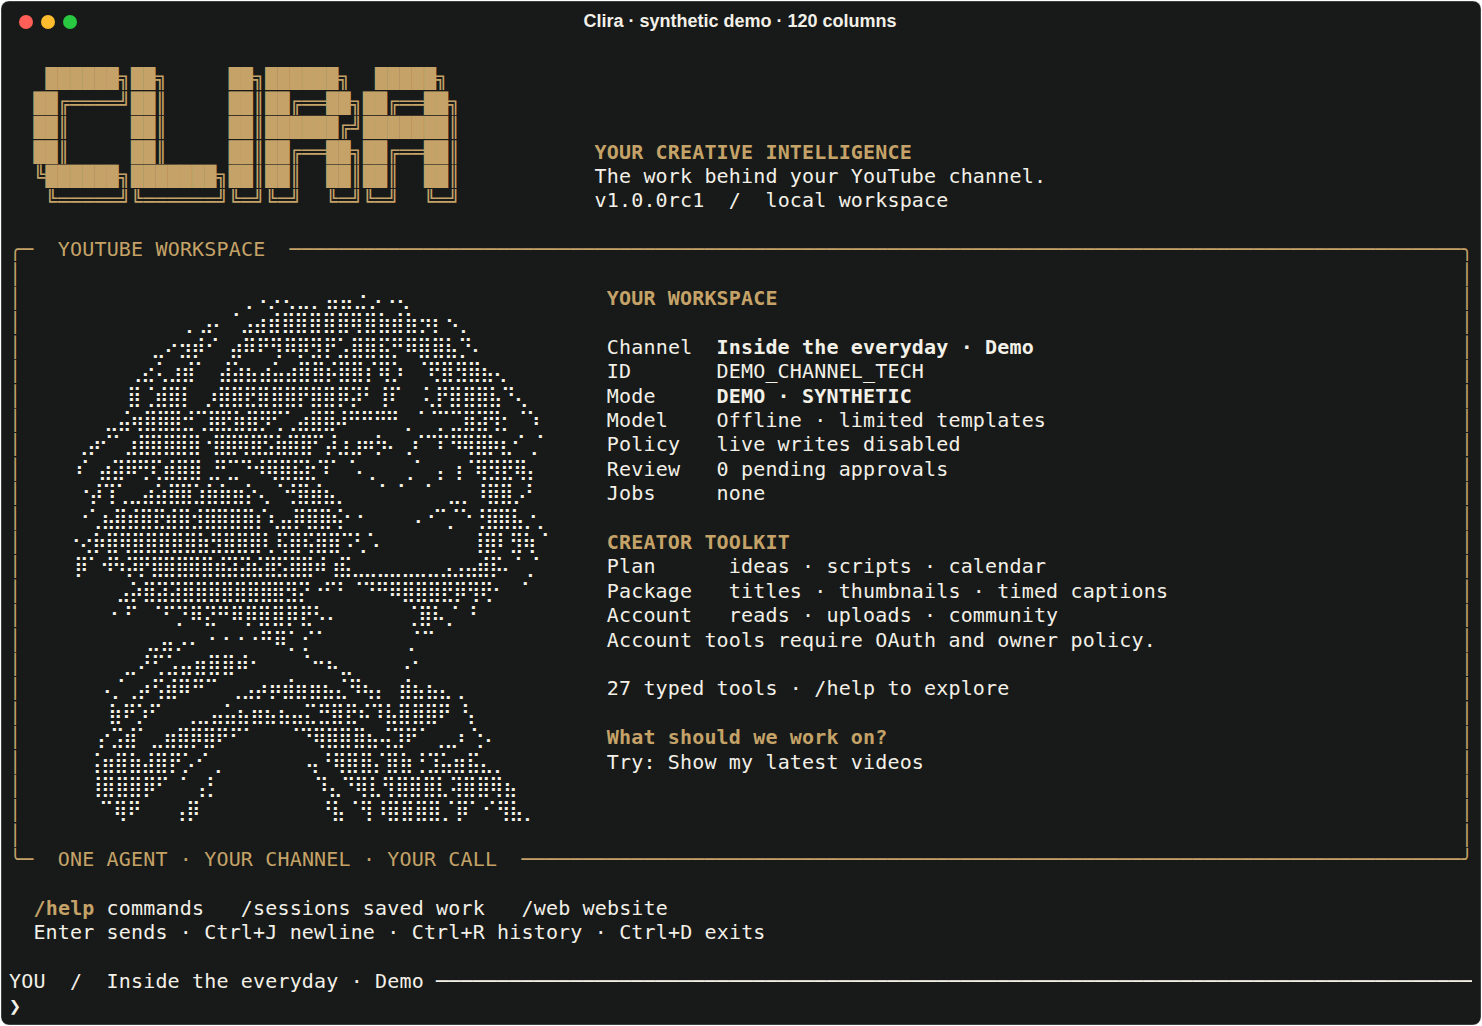
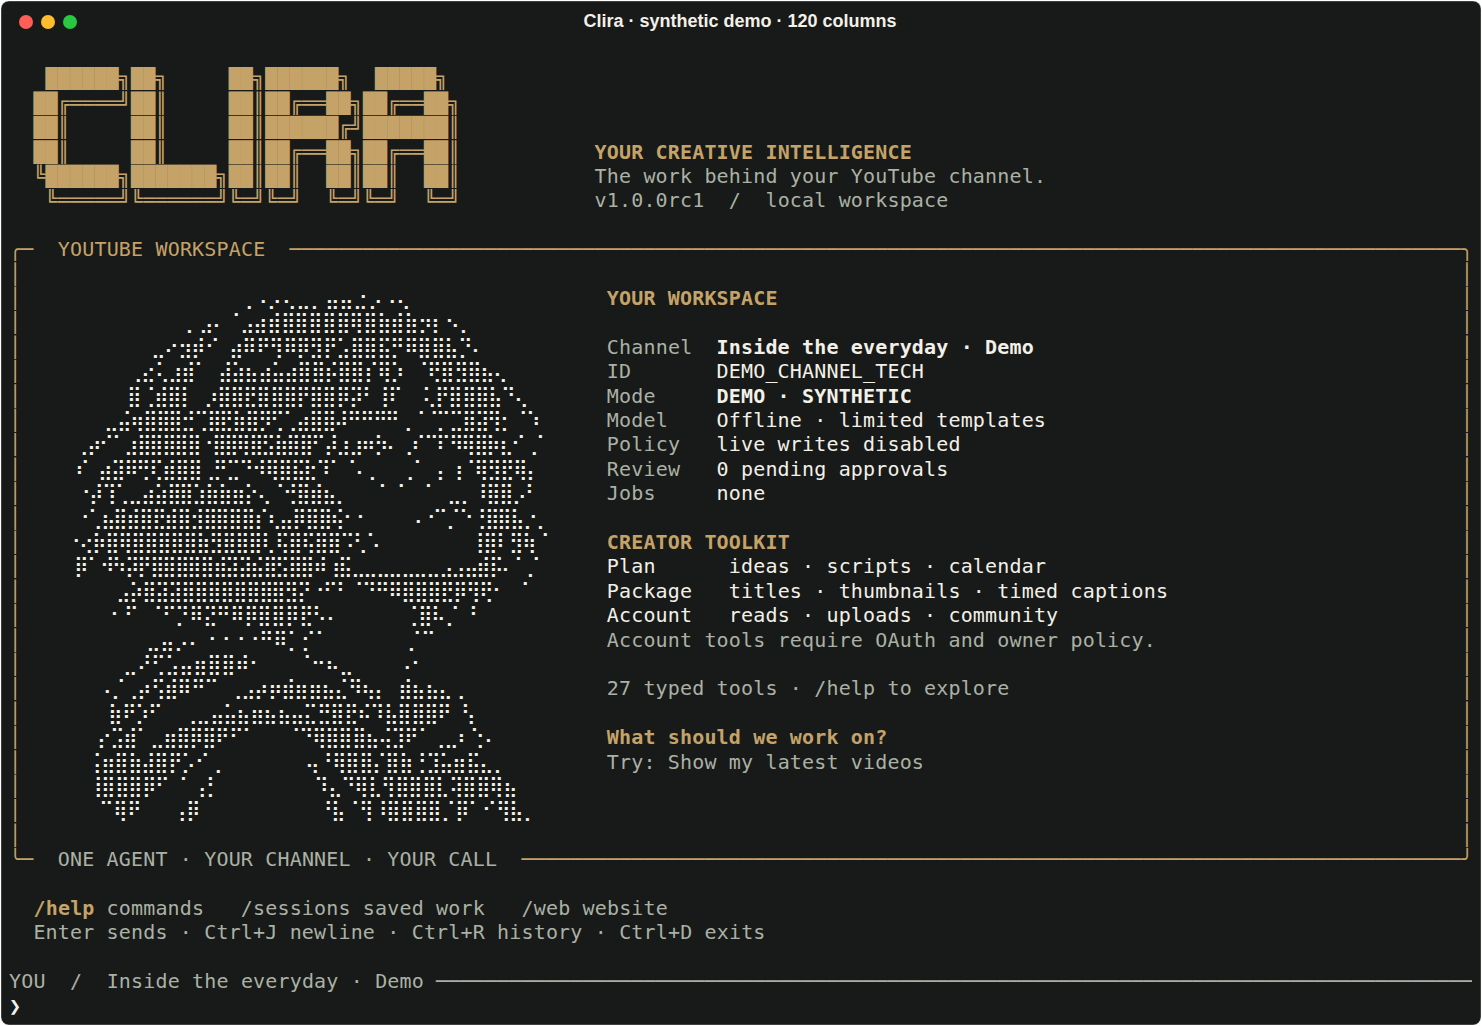
Export terminal previews from actual emitted ANSI styles
Ensure monochrome captures do not retain colors from Rich's pre-NO_COLOR recording buffer. Render each isolated gallery case with its explicit theme, then export the actual emitted text/styles. Refresh welcome/workspace previews; runtime behavior is unchanged.

diff --git a/scripts/capture_terminal.py b/scripts/capture_terminal.py
@@ -14,6 +14,7 @@ from pathlib import Path
 from playwright.sync_api import sync_playwright
 from rich.console import Console
 from rich.terminal_theme import TerminalTheme
+from rich.text import Text
 
 from clira.agent import Agent
 from clira.config import Config
@@ -102,6 +103,8 @@ def main():
             )
             terminal.theme = theme
             terminal.apply_theme()
+            # Each gallery case chooses its theme independently of the capture shell.
+            terminal.console.no_color = theme == "mono"
             if name.startswith("conversation"):
                 terminal.view.composer()
                 terminal.print("❯ Show my latest videos")
@@ -120,8 +123,13 @@ def main():
                     terminal.print("❯ ")
                 else:
                     terminal.print("Choose 1 / 2 / 3 > ")
-            (root / (name + ".txt")).write_text(terminal.console.export_text(clear=False))
-            svg = terminal.console.export_svg(
+            # Rich records styles before NO_COLOR is applied. Export the actual emitted
+            # ANSI instead so a monochrome preview cannot accidentally retain colors.
+            emitted = Text.from_ansi(terminal.console.file.getvalue())
+            exported = Console(file=io.StringIO(), width=width, height=height, record=True)
+            exported.print(emitted, end="")
+            (root / (name + ".txt")).write_text(exported.export_text(clear=False))
+            svg = exported.export_svg(
                 title=f"Clira · synthetic demo · {width} columns",
                 theme=LIGHT if theme == "light" else DARK,
             )
